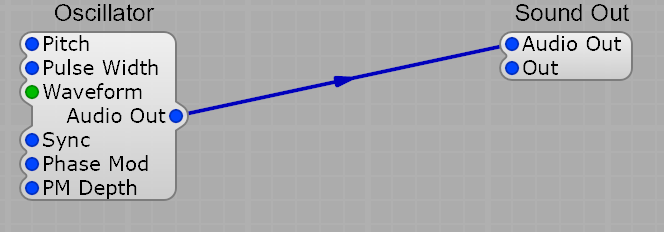
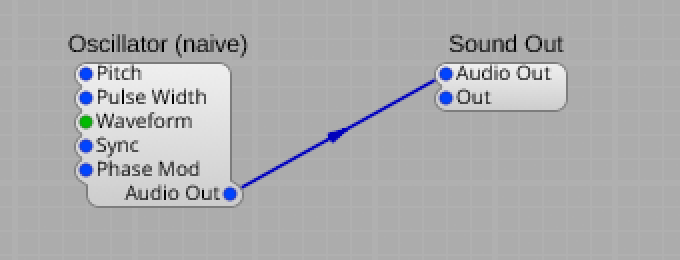
first-synth: bring the tutorial in line with SynthEdit 1.6
Walked the tutorial end to end against the current app. Most of it no
longer matched:

* Every "Insert > Category > Module" step. There is no Insert menu on any
  platform in 1.6 - modules come from the Module Browser. Added a section
  explaining the browser (search, click the list, click the canvas) and
  rewrote the five insert steps to use it.

* Every module the tutorial named is now the deprecated "Old" variant.
  Oscillator -> Oscillator (naive), Slider -> Slider2, SV Filter -> SV
  Filter2. Also noted that anything under "Old" is there for loading
  existing projects.

* The slider's output plug is labelled "Slider", not "Signal Out".

* SV Filter2 has a single Output plus a Mode pin (Low Pass by default),
  not the four separate outputs the old SV Filter had.

* "Press the Play button on the toolbar (or hit Spacebar)" - there is no
  toolbar and Spacebar does nothing. It is Audio > Start Audio / Stop
  Audio (Audio > Run / Stop on Linux).

* Edit > Snap to Grid exists on Windows and macOS but not yet on Linux;
  flagged rather than dropped.

Regenerated all six screenshots from the current build - they still
showed the old modules and pin names, contradicting the new text. Also
noted that a pin driven by a patch cord has no editable value in the
properties panel, and that the List Entry populates itself from whatever
it is wired to.

diff --git a/src/content/docs/guides/first-synth.md b/src/content/docs/guides/first-synth.md
@@ -28,74 +28,97 @@ A SynthEdit project holds all the modules, controls, and patch cords that make u
 - Launch SynthEdit
 - Choose **File → New** from the menu
 
-SynthEdit creates an empty document. The large work area is called the **Structure View** — it shows every module in your synth and how they're wired together.
+SynthEdit creates an empty document. The large work area in the middle is called the **Structure View** — it shows every module in your synth and how they're wired together.
 
-## 3. Add an oscillator
+## 3. The Module Browser
 
-The first thing every synthesiser needs is a sound source. We'll add an **Oscillator** — a module that produces a continuous waveform.
+Every module you add comes from the **Module Browser**, the panel down the left-hand side of the window. It has three parts:
 
-- Right-click on an empty area of the Structure View and choose **Insert → Waveform → Oscillator**, or drag the module in from the **Module Browser** on the left.
+- A **search box** at the top
+- A **category tree** below it (Controls, Filters, Waveform, MIDI, and so on)
+- The **module list** on the right, showing the modules in the selected category
+
+Adding a module takes two clicks:
+
+1. Click the module's name in the list. The pointer changes to a crosshair to show a module is ready to place.
+2. Click an empty spot in the Structure View. The module is inserted there.
+
+Searching is usually quicker than browsing the tree. Type into the search box and the list narrows as you type, with each result labelled by the category it came from. Press **Escape** to clear the search.
+
+Modules listed under the **Old** category are kept only so that older projects still load. Always prefer the current module of the same name — this tutorial uses those throughout.
+
+## 4. Add an oscillator
+
+The first thing every synthesiser needs is a sound source. We'll add an **oscillator** — a module that produces a continuous waveform.
+
+- Type `oscillator` into the search box
+- Click **Oscillator (naive)** under the **Waveform** heading
+- Click an empty spot in the Structure View to place it
 
 <img src="../../images/tutorials/first-synth/01-oscillator.png" alt="Oscillator module in the structure view" />
 
 The oscillator has several plugs. The most important ones for now are:
 
 - **Pitch** (input) — controls the frequency
-- **Waveform** (input) — selects the shape of the wave (sine, saw, pulse, etc.)
+- **Waveform** (input) — selects the shape of the wave (Sine, Saw, Pulse or Tri)
 - **Audio Out** (output) — the generated waveform
 
-## 4. Add a sound out module
+## 5. Add a sound out module
 
 The oscillator produces a waveform, but to actually hear it you need a **Sound Out** module — this routes audio from your patch to your speakers (or your DAW, when running as a VST).
 
-- Choose **Insert → Input/Output → Sound Out**, or right-click and use the **Insert** menu.
-- Drag the modules around by their title bars to lay them out neatly.
+- Search for `sound out` and click **Sound Out** under **Input-Output**
+- Click in the Structure View, a little to the right of the oscillator
+- Drag the modules around by their title bars to lay them out neatly
 
-Tip: turn on **Edit → Snap to Grid** to keep things tidy.
+Tip: turn on **Edit → Snap to Grid** to keep things tidy. (This option isn't in the Linux build yet.)
 
 <img src="../../images/tutorials/first-synth/02-osc-and-soundout.png" alt="Oscillator and Sound Out side by side" />
 
-## 5. Connect them with a patch cord
+## 6. Connect them with a patch cord
 
 Now we'll wire the oscillator's audio into the sound out.
 
-- Click the **Audio Out** plug on the **Oscillator**
-- Move to the input plug on the **Sound Out** module and click again
+- Click the **Audio Out** plug on the oscillator
+- Move to the **Out** plug on the **Sound Out** module and click again
 
-A blue **patch cord** is drawn between them. The cord follows the modules if you drag them around.
+A blue **patch cord** is drawn between them, with an arrow showing which way the signal flows. The cord follows the modules if you drag them around.
 
 <img src="../../images/tutorials/first-synth/03-connected.png" alt="Oscillator connected to Sound Out" />
 
 As you drag a cord across plugs, SynthEdit highlights the ones it can legally connect to. It will refuse to connect two inputs together or two outputs together. The Sound Out module also automatically grows a new spare input pin once you've wired one — handy when you want to mix several sources together.
 
-## 6. Play the sound
+## 7. Play the sound
 
 You now have the minimum needed to make some noise.
 
 > **Warning** — the oscillator produces a constant, fairly loud waveform. **Turn your speakers down before pressing play.**
 
-- Press the **Play** button on the toolbar (or hit **Spacebar**) to start audio
-- Press **Stop** (or **Spacebar** again) to stop
+- Choose **Audio → Start Audio** to start the audio engine
+- Choose **Audio → Stop Audio** when you've heard enough
+
+On Linux these are combined into a single **Audio → Run / Stop** item that toggles the engine on and off.
 
 It's not exactly inspiring yet — just a continuous tone — but it's a start. The oscillator is producing a fixed waveform and pumping it straight into Sound Out.
 
-This is a good moment to save: choose **File → Save** and name the file `tutorial.synthedit`.
+This is a good moment to save: choose **File → Save**, then pick a folder and name the file `tutorial.synthedit`.
 
-## 7. Add a control for pitch
+## 8. Add a control for pitch
 
 To change the oscillator's pitch while it plays, we need a **control** module. Sliders are the most common choice.
 
-- Right-click just to the left of the oscillator and choose **Insert → Controls → Slider**
-- Connect the slider's **Signal Out** plug to the oscillator's **Pitch** input
+- Search for `slider` and click **Slider2** under **Controls**
+- Place it just to the left of the oscillator
+- Connect the slider's output plug — labelled **Slider** — to the oscillator's **Pitch** input
 
 <img src="../../images/tutorials/first-synth/04-with-slider.png" alt="Slider connected to the oscillator's pitch input" />
 
-- Press **Play** (or **Spacebar**)
+- Start the audio engine again
 - Click the slider's knob and drag it up and down while the sound plays
 
 The pitch follows the slider in real time. Most module parameters in SynthEdit can be controlled this way — just route a control's output to the parameter's input plug.
 
-## 8. Module parameters: three ways to set them
+## 9. Module parameters: three ways to set them
 
 What you just did is one of three ways to set a module's parameters:
 
@@ -105,40 +128,47 @@ What you just did is one of three ways to set a module's parameters:
 
 Let's try the second one.
 
-## 9. Use the properties panel
+## 10. Use the properties panel
 
-- Click the **Oscillator** to select it. Its properties appear in the panel on the right (or right-click and choose **Properties** if it's hidden).
-- Find the **Waveform** property and change it from **Saw** to **Pulse**
-- Optionally, change the module's **Title** to `OSC1` so it's easier to identify
+- Click the oscillator to select it. Its properties appear in the panel on the right, listing the module's name at the top and its **PINS** below.
+- Find the **Waveform** row and change it from **Saw** to **Pulse** using the drop-down
+- Optionally, change the module's name at the top of the panel to `OSC1` so it's easier to identify
 
-Press **Spacebar** to play. The oscillator now produces a pulse wave, which has a more hollow, reedy character than a sawtooth. Try the other waveforms to hear the difference.
+Start the audio engine. The oscillator now produces a pulse wave, which has a more hollow, reedy character than a sawtooth. Try the other waveforms to hear the difference.
 
-## 10. Add a List Entry control for the waveform
+Notice that the **Pitch** row has no editable value — that's because the slider is driving it now. A pin fed by a patch cord takes its value from the cord, not from the panel.
+
+If the properties panel isn't visible, use **View → Show Properties** (Linux), or drag the panel's edge back out.
+
+## 11. Add a List Entry control for the waveform
 
 Setting the waveform from the properties panel is fine for a fixed value, but it would be nicer to switch waveforms while the synth plays. A **List Entry** module gives you a drop-down menu on the panel.
 
-- Insert a List Entry module: **Insert → Controls → List Entry**
+- Search for `list entry` and click **List Entry** under **Controls**
+- Place it below the slider
 - Connect the list entry's **Value Out** output to the oscillator's **Waveform** input
 
 <img src="../../images/tutorials/first-synth/05-with-list-entry.png" alt="List Entry connected to the oscillator's waveform input" />
 
-You can now pick the waveform from a drop-down. If the module is too small, drag its bottom-right corner to resize it.
+As soon as the cord is connected, the List Entry fills itself in with the oscillator's own choices — Sine, Saw, Pulse and Tri — and you can pick between them from the drop-down. If the module is too small, drag its bottom-right corner to resize it.
 
 Notice that the new patch cord is **green**, not blue. SynthEdit uses different colours for different signal types — green is for list (enum) choices, blue is for audio. SynthEdit won't let you connect mismatched types, which catches a lot of mistakes early.
 
-## 11. Add a filter
+## 12. Add a filter
 
 The oscillator on its own is a bit raw. A **filter** sits between the oscillator and the sound out, shaping the tone by removing or emphasising certain frequencies.
 
 - Click the patch cord between the oscillator and sound out, and press **Delete** to remove it
-- Insert an **SV Filter**: **Insert → Filters → SV Filter**
-- Wire the oscillator's **Audio Out** → filter's **Signal** input
-- Wire the filter's **Low Pass** output → Sound Out's input
-- Add a second slider and wire it to the filter's **Pitch** input so you can sweep the cutoff
+- Search for `sv filter` and click **SV Filter2** under **Filters**, then place it between the two modules
+- Wire the oscillator's **Audio Out** → the filter's **Signal** input
+- Wire the filter's **Output** → Sound Out's **Out** input
+- Add a second **Slider2** and wire it to the filter's **Pitch** input so you can sweep the cutoff
 
-<img src="../../images/tutorials/first-synth/06-with-filter.png" alt="Oscillator into SV Filter into Sound Out" />
+<img src="../../images/tutorials/first-synth/06-with-filter.png" alt="Oscillator into SV Filter2 into Sound Out" />
 
-Press **Play** and experiment. As you move the cutoff slider, the filter sweeps through the harmonic content of the oscillator — that classic synthesiser sound. Try different waveforms with the list entry too.
+SV Filter2 has a single **Output**, and its **Mode** pin chooses what that output carries — Low Pass, High Pass, Band Pass or Band Reject. It starts on **Low Pass**, which is what we want here. (You can wire a second List Entry to **Mode** to switch response while the synth plays, exactly as you did for the waveform.)
+
+Start the audio engine and experiment. As you move the cutoff slider, the filter sweeps through the harmonic content of the oscillator — that classic synthesiser sound. Try different waveforms with the list entry too.
 
 Save your work again before moving on.
 
@@ -149,7 +179,8 @@ Congratulations — you've just built your first software synthesiser! This patc
 You now know how to:
 
 - Create a new project and find your way around the Structure View
-- Add modules and connect them with patch cords
+- Find modules in the Module Browser and place them on the canvas
+- Connect modules with patch cords
 - Set parameters from the properties panel
 - Drive parameters in real time with control modules
 - Use different signal types (audio vs. lists) and let SynthEdit's colour-coding guide your wiring
